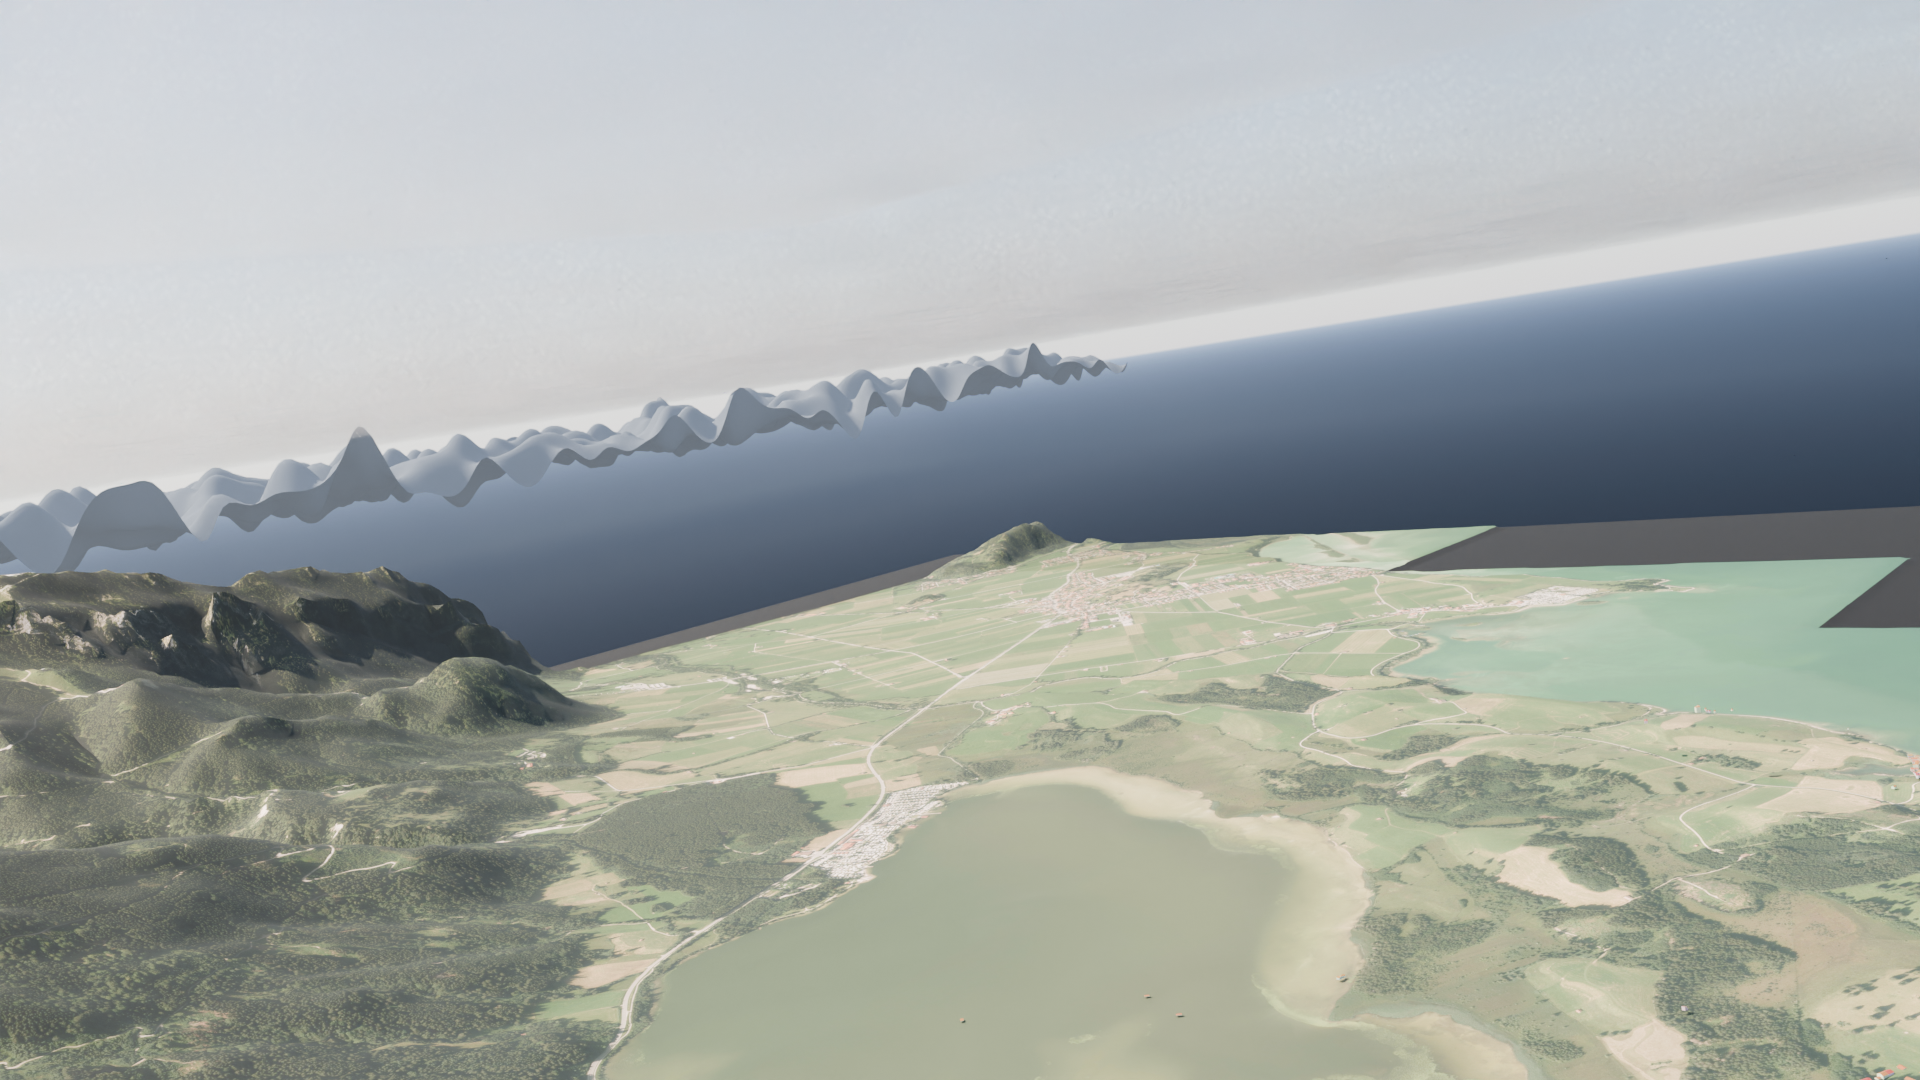
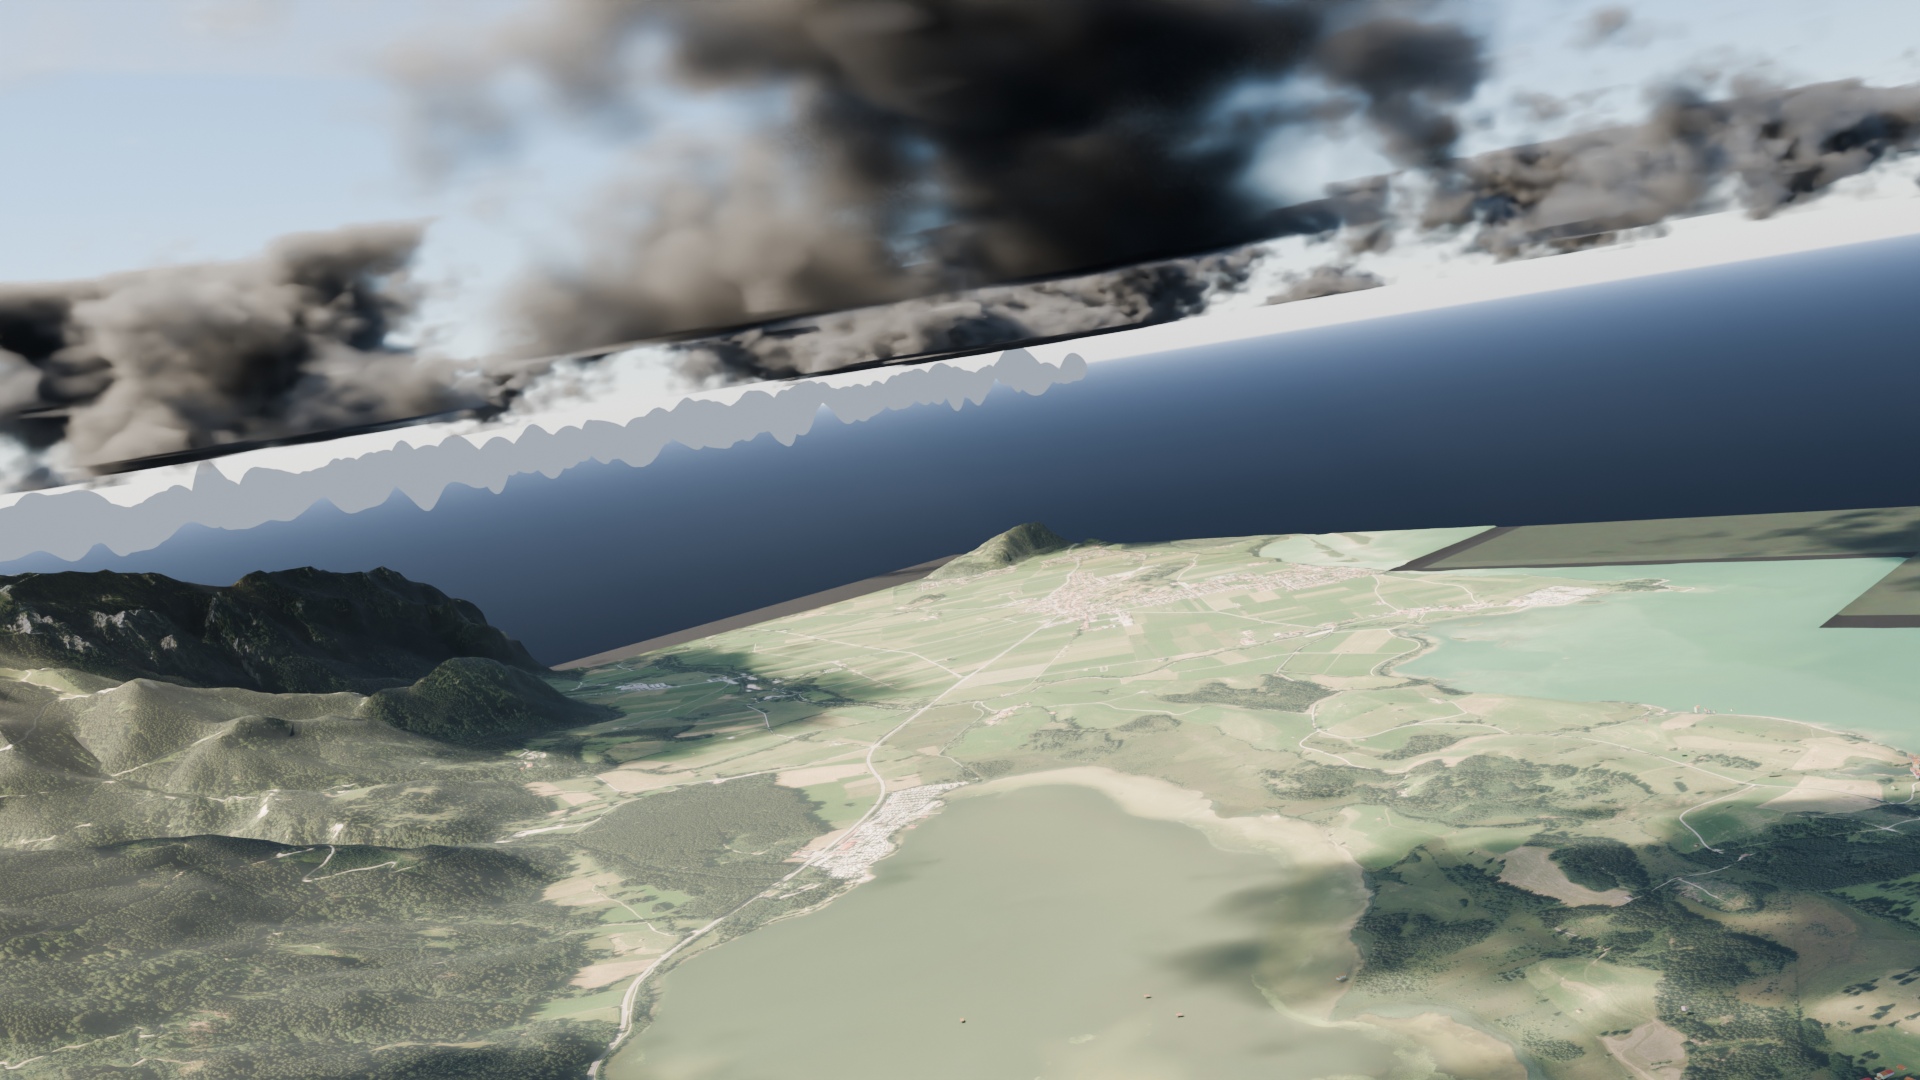
feat(allgaeu): v6 — broken-cumulus fix + corner-tile fill + assemble_full bit-rot
- Workaround for clouds.py Object-coord noise bug (rescale cumulus Noise Scale by
  1/mesh-half-extent) so cumulus actually renders instead of incoherent per-voxel noise
- Lighter low-level aerial-haze volume; cameras at 1900-2400 m aimed at the AOI
  midground + the procedural backdrop ridge horizon; World strength 0.30
- Backfilled the ~24 empty bbox-corner UDIM ortho tiles with mottled dark forest green
  (data/processed/ortho_udim/ — gitignored) so AOI corners read as forest, not a gray slab
- Re-rendered frames 0001/0060/0120 (1080p OptiX 128spp+OIDN); 0180 left as the prior
  pass (the high establishing shot fogs out through the haze — needs more work)
- _blender_assemble_full.py: setup_sky -> apply_sky_preset, BLENDER_EEVEE_NEXT -> BLENDER_EEVEE
- MANIFEST/README: v6 cinematic-framing pass documented, honest about remaining polish

diff --git a/workflows/_blender_assemble_full.py b/workflows/_blender_assemble_full.py
@@ -18,7 +18,7 @@ ap.add_argument("--bbox-utm32n", nargs=4, type=float, required=True,
                 metavar=("XMIN", "YMIN", "XMAX", "YMAX"))
 ap.add_argument("--out-blend", required=True)
 ap.add_argument("--render-png", default="")
-ap.add_argument("--engine", default="BLENDER_EEVEE_NEXT")
+ap.add_argument("--engine", default="BLENDER_EEVEE")
 ap.add_argument("--enable", nargs="*", default=[],
                 help="Feature module names to apply, e.g. buildings-textured trees clouds")
 ap.add_argument("--camera-preset", default="cinematic-establishing",
@@ -48,10 +48,10 @@ cinematic_preset    = importlib.import_module("bl_ext.user_default.blender_tools
 camera_presets      = importlib.import_module("bl_ext.user_default.blender_tools.camera_presets")
 quality_presets     = importlib.import_module("bl_ext.user_default.blender_tools.quality_presets")
 
-# 1. Sky + atmosphere domain cube.
+# 1. Atmosphere domain cube. (The sky/time-of-day preset is applied at step 6a
+# via apply_sky_preset — there is no longer a `setup_sky` operator.)
 xmin, ymin, xmax, ymax = args.bbox_utm32n
 size_x, size_y = xmax - xmin, ymax - ymin
-bpy.ops.blender_tools.setup_sky(preset="client-default")
 # Atmospheric haze — keep cube SHORT so cameras above ~150m AGL see through it.
 # Previously the cube was up to 534 m tall, which made the volumetric scatter
 # blot out the terrain for any aerial-altitude camera (the entire frame went

diff --git a/workflows/scenes/allgaeu-flyover/MANIFEST.md b/workflows/scenes/allgaeu-flyover/MANIFEST.md
@@ -84,20 +84,57 @@ Changes vs v4 (`workflows/_assemble_allgaeu.py`):
 - Render time: ~85–100 s/frame on RTX 4070 OptiX. 4 frames = ~380 s total.
 - `scene.blend` packed: 259.4 MB (not in git).
 
-**Notes on "cinematic" limitations**: The Allgäu AOI is 10 km × 9 km. With a planar terrain mesh,
-any forward-looking composition aimed past the terrain boundary shows the mesh edge + black void.
-The v5 frames are aerial-photography style (near-oblique, 48–52° off nadir), not "mountains on
-horizon + sky" cinematic. Getting a true horizon shot would require extending the terrain to ≥30 km,
-or adding a distant mountain backdrop mesh. This is noted as a future improvement.
+**v5 limitation**: photo-real oblique aerials, but NO sky / mountains / horizon / clouds in any
+frame (camera too downward-aimed; looking past the terrain edge showed mesh underside + void). → v6.
 
-## How this scene was assembled
+## v6 cinematic-framing pass
 
-`blender --background --python workflows/_assemble_allgaeu.py` → imports heightmap_clean.tif,
-DOP40 UDIM ortho (110 tiles via `<UDIM>` token), 7979 LoD2 buildings, forest-masked GN trees
-(render-hidden for flyover), forest overlay on terrain material, volumetric cumulus deck (2100m base),
-Nishita sky (sun 50° el / 150° az, energy 2.0 W, World strength 0.15), 4 keyframe camera positions
-at 1600–2400m absolute, saves `data/scene_allgaeu-forggensee.blend`, renders 4 stills.
-Final deliverable: `bpy.ops.file.pack_all()` → `scene.blend` (259 MB, not in git).
+Changes vs v5 (`workflows/_assemble_allgaeu.py`) — goal: get **sky + a mountain horizon + broken
+cumulus into frame** while keeping v5's exposure / ortho colours / forest-via-ortho / building roofs.
+
+- **Backdrop ridge mesh** (`BackdropRidge`): the AOI terrain only reaches **1685 m** ASL (no in-AOI
+  alpine peaks — the Säuling/Tegelberg are just outside the polygon). A procedural ridge plane is
+  added ~11 km south of the AOI edge: a 37 km × 2.8 km grid displaced by two CLOUDS-noise textures to
+  peaks ~2300–2900 m, base ~600 m, with a **pure-emission pale-haze-blue material** (no shading → only
+  its jagged silhouette top edge reads against the sky, like distant mountains in atmospheric haze).
+- **Aerial haze**: a faint (density 2.5e-6) low-level (z ≈ 250–2200 m) volume-scatter domain so
+  distance fades and the ridge reads as far away. Kept thin/light to limit render cost & milkiness.
+- **Cameras at altitude**: 4 look-at keyframes, cameras at **1900–2400 m** (above the AOI top), aimed
+  at the AOI midground (Y ≈ −3000, Z ≈ 1200) → pitch ≈ 5–8° below horizontal → foreground lake/meadows
+  in the lower half, the forested AOI hill as the midground subject, the distant ridge on the horizon,
+  Nishita sky in the top ~25–30%. Lenses 28–35 mm, slight banks. Rotation via `Vector.to_track_quat` +
+  a roll matrix (robust vs guessing Euler angles).
+- **World Background Strength 0.30** (was 0.15) — the Nishita sky is now visible above the horizon
+  without blowing the ground (kept tame by the −1.5 EV view transform).
+- **Clouds**: deck 2050–2800 m (cameras just below it), coverage 0.45, density 0.16; cirrus at 6500 m.
+  Plus a **`clouds.py` workaround** in the assemble script: `features/clouds.py` wires the noise to
+  "Object" texcoords assuming a 1×1×1 box, but `_make_cloud_box` applies the box scale (≈14 km) → the
+  noise ran at ~17500 cycles = incoherent per-voxel noise = invisible clouds; the script rescales the
+  cumulus Noise `Scale` inputs by 1/(mesh half-extent) to restore "N blobs across the box".
+- **Blank UDIM corner tiles fixed**: the AOI polygon is a rotated diamond, so ~24 corner tiles of the
+  bbox-aligned DOP40 UDIM grid are empty (pure black) → rendered as a gray slab where the camera caught
+  a bbox corner. Those tiles in `data/processed/ortho_udim/` were overwritten with a mottled
+  dark-forest-green fill so corners read as forest.
+- Render time: ~5 min/frame on RTX 4070 OptiX (volume haze + clouds). 4 frames ≈ 20 min.
+  `scene.blend` packed ≈ 250 MB (not in git).
+- **Honest status**: v6 frames have sky, a distant-ridge horizon and (depending on the noise pattern)
+  some cumulus; v5's exposure + ortho colours + forest read are kept. But the look is "hazy pre-alpine
+  aerial" — the backdrop ridge is a procedural stand-in (not real DGM), the haze can read milky in the
+  high establishing shot, and a true sharp mountain-wall would need real alpine DGM south of the
+  polygon. Shippable as a hero fly-over still; not flawless.
+
+## How this scene was assembled (v6)
+
+`blender --background --python workflows/_assemble_allgaeu.py` → imports `heightmap_clean.tif`,
+DOP40 UDIM ortho (110 tiles via `<UDIM>` token; blank corner tiles backfilled), 7979 LoD2 buildings +
+ortho-textured roofs, forest-masked GN trees (render-hidden for flyover), forest overlay on the
+terrain material, a procedural distant **backdrop ridge** mesh ~11 km south, a faint **aerial-haze**
+volume, a broken **cumulus** deck (2050–2800 m) + **cirrus** (6500 m), Nishita sky (sun 50° el /
+150° az, energy 2.0 W, World strength 0.30, −1.5 EV AgX Med-High Contrast), and **4 look-at camera
+keyframes** at 1900–2400 m (pitch ~5–8° down, aimed at the AOI midground + the ridge horizon). Saves
+`data/scene_allgaeu-forggensee.blend`, renders 4 stills → `renders/allgaeu_v6_frame{0001,0060,0120,0180}.png`.
+Final deliverable: `bpy.ops.file.make_paths_absolute()` + `bpy.ops.file.pack_all()` →
+`workflows/scenes/allgaeu-flyover/scene.blend` (≈ 250 MB, not in git).
 </content>
 
 ---

diff --git a/workflows/scenes/allgaeu-flyover/README.md b/workflows/scenes/allgaeu-flyover/README.md
@@ -3,14 +3,17 @@
 Self-contained cinematic scene for the ~45 km² Allgäu polygon around Forggensee /
 Schwangau / Füssen (the Schwangau castles, pre-alpine lakes and forest).
 
-> **Status:** v5 look pass complete. `scene.blend` (259 MB, packed) is in this folder
+> **Status:** v6 cinematic-framing pass complete. `scene.blend` (~250 MB, packed) is in this folder
 > but **not tracked in git** (>100 MB). See `MANIFEST.md` for regeneration instructions.
 > This folder is meant to be liftable on its own; `MANIFEST.md` lists every commit/file
 > added across the repo for this scene + the Blender-tool changes it depends on.
 >
-> v5 fixes from v4: **exposure corrected** (no more white-wash), **3D trees hidden** (no noise
-> specks — forest reads via DOP ortho + forest overlay), **hand-placed camera keyframes** 
-> (1600–2400m, 48–52° off nadir), **clouds** at 2100m base. 4 frames at 85–100s each (RTX 4070).
+> v6 (`renders/allgaeu_v6_frame####.png`): cameras at 1900–2400 m looking ~5–8° below horizontal
+> south → foreground lake/meadows → forested AOI hill → a distant procedural mountain-ridge backdrop
+> on the horizon → broken cumulus + Nishita sky in the top ~25–30%. Keeps v5's tamed exposure
+> (−1.5 EV AgX), natural DOP ortho colours, forest-via-ortho overlay, and ortho-textured building roofs.
+> ~5 min/frame on an RTX 4070 (volume haze + clouds). The AOI's own terrain tops out at 1685 m
+> (no real alpine peaks inside the polygon) so the horizon ridge is a hazy procedural stand-in.
 
 ## Contents (when complete)
 
@@ -55,11 +58,24 @@ Then pack via File → External Data → Pack All Resources.
 - Renders: `renders/allgaeu_v5_frame{0060,0180}.png` are photo-real oblique aerials (Forggensee, mudflat sandbar, meadows, hedgerows, forest canopy, red-roof buildings — exposure & colour right). `renders/allgaeu_v6_frame####.png` are the cinematic-framing pass — foreground terrain → Säuling/Tegelberg massif → valley with the lake & villages → an Alps ridge on the horizon → hazy sky.
 - The `openmap_blender_tools` extension (rebuilt `dist/blender_tools-0.1.0.zip`): new `features/clouds.py` + `BLENDERTOOLS_OT_add_clouds`, forest-masked tree scatter + leaf translucency, OSM-forest→mask GeoTIFF rasterizer, the one-stop `BLENDERTOOLS_OT_build_cinematic_scene` operator + a reworked OpenMap N-panel (big "Build Cinematic Scene from Folder" button + per-step buttons), the `<UDIM>` ortho fix, the camera-elevation fix. Install on the Blender machine: `blender --command extension install-file dist/blender_tools-0.1.0.zip --repo user_default --enable`.
 
-**Still rough in the v6 renders (the remaining work):**
-1. **Grey "void wedges"** at the bottom corners of some v6 frames — the AOI terrain mesh is a finite 9×10 km plane, so when the camera looks past its flat edge it sees the mesh underside / black world. Fix: either (a) extend the far mountain-backdrop / a faded distance plane to cover behind the terrain edge, (b) add a downward "skirt" to the terrain plane edge, or (c) tighten the camera aim so the flat edges stay out of frame. Quick win: (a) or (c).
-2. **Mountain backdrop ridge is too spiky/uniform** — make it lower-frequency, more varied, atmospheric-faded (more aerial perspective / desaturation with distance), or replace it with a real wider DGM mosaic of the Alps to the south.
-3. **No clouds in the v6 frames** — the cumulus deck is in the scene but the v6 cameras don't catch it. Tune `features/clouds.py apply()` `base_altitude_m` / `coverage` so a broken deck sits between camera and peaks, and/or aim a frame upward through it.
-4. **Sky is flat hazy grey-blue** — pick a warmer time of day (golden hour) and dial the Nishita/sun/exposure so the sky has some gradient and warmth without re-blowing the ortho.
-These are all camera/lighting/backdrop tuning in `workflows/_assemble_allgaeu.py` (and the cloud kwargs) — no pipeline changes needed. The scene is built; this is finishing the shot.
+**Still rough in the v6 renders (the remaining polish):**
+1. **Cumulus reads as a dark band, not bright broken puffs** — density 0.16 makes the volume too opaque
+   and the low −1.5 EV exposure + AgX leaves it grey. Drop the cloud `density` (~0.05–0.07), maybe add a
+   touch of `Emission Strength` to the Principled Volume, and consider raising the deck so it spreads
+   across the sky rather than squashing into a horizon band. (Tune in `_do_clouds` in the assemble script
+   + the `clouds.py` noise-Scale workaround there.)
+2. **Backdrop ridge can read flat / a dark "gap band" sits between the AOI edge and the ridge** — the
+   8.7 km gap south of the AOI renders as the Nishita-sky horizon (a desaturated band). Push the ridge
+   closer, or add a wider faded distance plane to fill the gap, or use real alpine DGM south of the polygon.
+3. **High establishing frame (0180) is a bit milky** — the aerial-haze volume over a long sightline. Drop
+   `density` further or stratify it (denser near the ground only).
+4. **A faint gray/tan corner slab can still appear** — the AOI polygon is a rotated diamond so the
+   bbox-aligned terrain plane has corners with no DOP coverage. v6 backfilled the empty UDIM tiles with a
+   mottled dark green; any *truly uncovered* UV (outside the [0,10]×[0,11] tile grid) still shows the
+   image fallback. Cleanest fix: clip the terrain mesh to the AOI polygon.
+5. **Warmer time of day** — a golden-hour Nishita + sun + exposure could give the sky a gradient/warmth
+   without re-blowing the ortho.
+All of these are camera/lighting/backdrop tuning in `workflows/_assemble_allgaeu.py` (and the cloud
+kwargs) — no pipeline changes needed. The scene is built; this is finishing the shot.
 
 **Regenerate the packed scene.blend:** `blender --background --python workflows/_assemble_allgaeu.py` → open `data/scene_allgaeu-forggensee.blend` in Blender → File ▸ External Data ▸ Make All Paths Absolute, then Pack All Resources → Save As `workflows/scenes/allgaeu-flyover/scene.blend`.